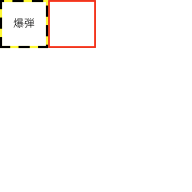
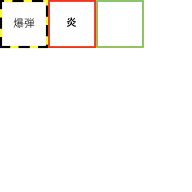
add auto-erase-Bomb

Changed region(s): [[0.5, 0.0, 0.75, 0.25], [0.3438, 0.0938, 0.4062, 0.1562]]

diff --git a/main.js b/main.js
@@ -45,7 +45,10 @@ class GameFlow{
         this.game.pushScene(playScene);
         playScene.addEventListener("enterframe", () => {
             var moveVector = [0, 0];
-            if(this.game.input.up){
+            if(this.game.input.space){
+                playScene.addChild(new Bomb(you.cx, you.cy, SIZE, this.game.assets["images/bomb.png"], false, playScene));
+                console.log(you.cx, you.cy, "put a bomb");
+            }else if(this.game.input.up){
                 moveVector = [0, -1];
             }else if(this.game.input.right){
                 moveVector = [+1, 0];
@@ -133,7 +136,7 @@ var Cell = Class.create(Sprite, {
             if((vec[0] !== 0 || vec[1] !== 0) && ((this.current[0] === null && this.current[1] === null) || (vec[0] === -1 * this.current[0] || vec[1] === -1 * this.current[1]))){
                 this.current = vec;
             }
-            console.log(cx, cy, vec, this.current);
+            // console.log(cx, cy, vec, this.current);
             
             this.x += this.current[0];
             this.y += this.current[1];
@@ -189,5 +192,29 @@ var Player = Class.create(Collider, {
 
     updateCoordinate(cx, cy){
         Collider.prototype.updateCoordinate.call(this, cx, cy, true);
+    }
+});
+
+var Bomb = Class.create(Collider, {
+    initialize(cx, cy, size, image, collision, scene){
+        Collider.call(this, cx, cy, size, collision);
+        this.image = image;
+        this.putTime = +new Date();
+        this.frame = 0;
+        this.current = [null, null];
+        this.scene = scene;
+
+        setTimeout(() => {
+            this.explose();
+        }, 2 * 1000);
+    },
+
+    checkTime(){
+
+    },
+
+    explose(fireLength){
+        // removeChild(this);
+        this.scene.removeChild(this);
     }
 });
